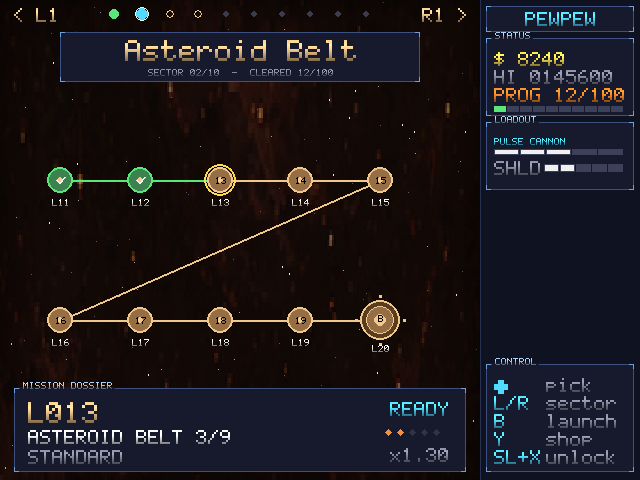
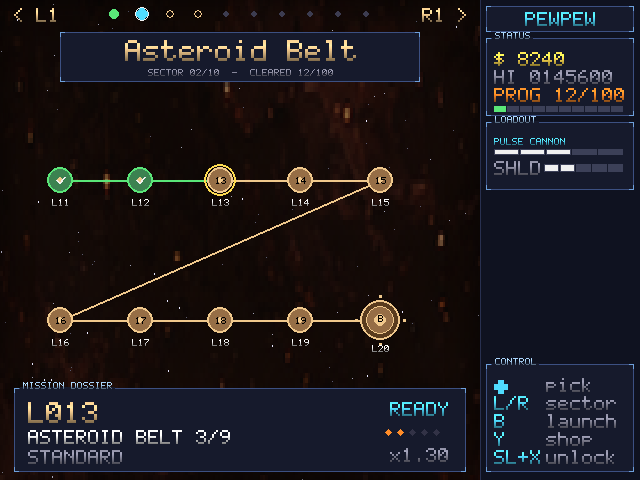
MapScreen: static ribbon filling the whole screen
The map screen's bg_ribbon now stretches to SCREEN_W instead of just
PLAY_W, drawn straight to the screen surface so it shows behind the
HUD area too (which the HUD chrome then covers). The .update() call
was dropped and bg_ribbon.speed pinned to 0, so the backdrop stays
still — the menu reads as calm rather than busy.

Dimming / depth is unchanged (the BackgroundRibbon constructor still
applies the same 130/255 multiply on the AI backdrop).

diff --git a/pewpew.py b/pewpew.py
@@ -5631,7 +5631,9 @@ class MapScreen:
         if sector_changed:
             self.cursor = self._default_cursor()
             self.app.sounds["menu"].play()
-            self.bg_ribbon = BackgroundRibbon(SECTOR_RIBBONS[self.sector_idx], width=PLAY_W)
+            self.bg_ribbon = BackgroundRibbon(SECTOR_RIBBONS[self.sector_idx],
+                                              width=SCREEN_W)
+            self.bg_ribbon.speed = 0
 
         # Dev shortcut: unlock every level. Keyboard Ctrl+U, joystick SELECT+X.
         for ev in events:
@@ -5715,17 +5717,16 @@ class MapScreen:
         save = self.app.save
         fonts = self.app.fonts
 
-        # Playfield-area background: sector-themed ribbon under a faint color wash,
-        # with the persistent parallax stars on top.
+        # Full-screen sector-themed ribbon under a faint colour wash, with
+        # the persistent parallax stars on top. The ribbon is constructed
+        # at SCREEN_W and its scroll speed is zero — it stays static here
+        # so the map screen reads as a quiet menu instead of a busy field.
         screen.fill(BLACK)
-        playfield = pygame.Surface((PLAY_W, SCREEN_H))
-        playfield.fill(BLACK)
-        self.bg_ribbon.draw(playfield)
+        self.bg_ribbon.draw(screen)
         tint = SECTOR_NEBULAS[self.sector_idx]
-        wash = pygame.Surface((PLAY_W, SCREEN_H), pygame.SRCALPHA)
+        wash = pygame.Surface((SCREEN_W, SCREEN_H), pygame.SRCALPHA)
         wash.fill((tint[0], tint[1], tint[2], 24))
-        playfield.blit(wash, (0, 0))
-        screen.blit(playfield, (0, 0))
+        screen.blit(wash, (0, 0))
         self.stars.draw(screen)
         screen.blit(self.app.vignette, (0, 0))
 